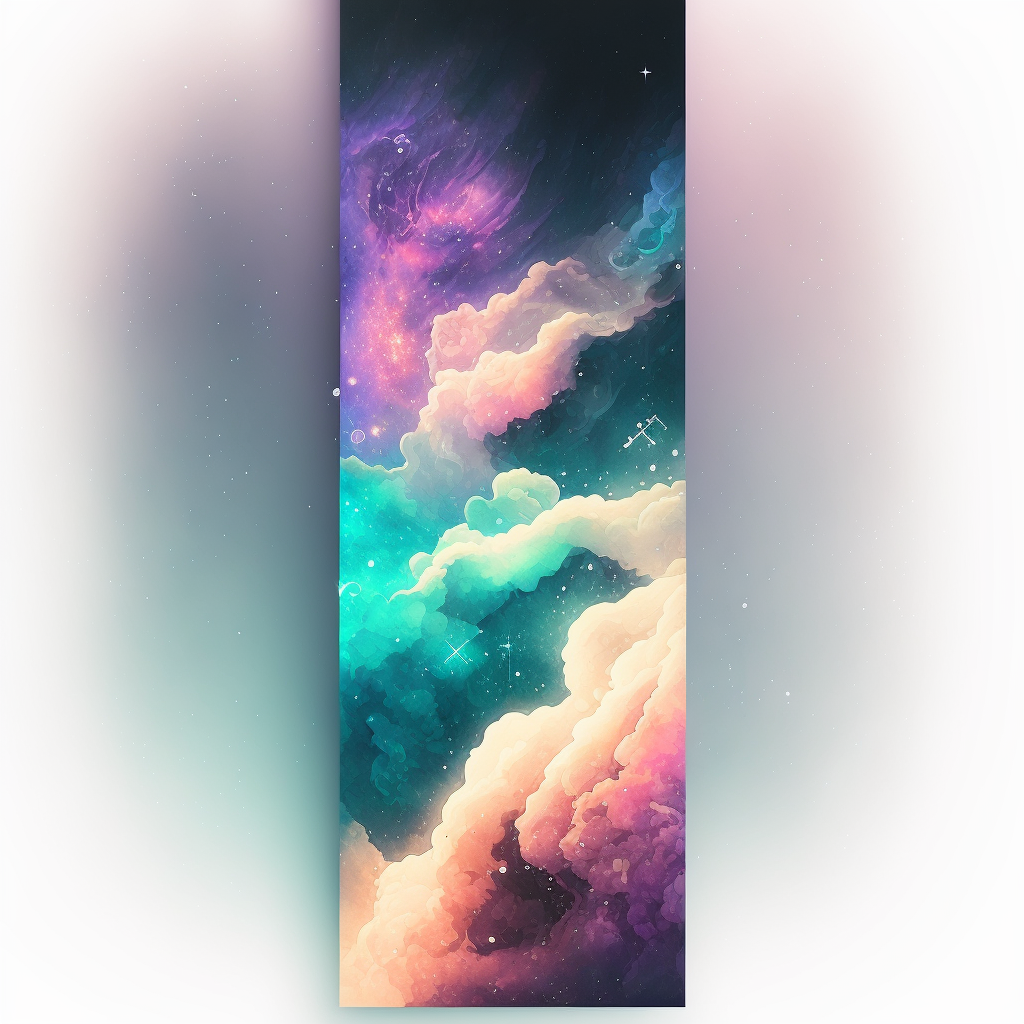
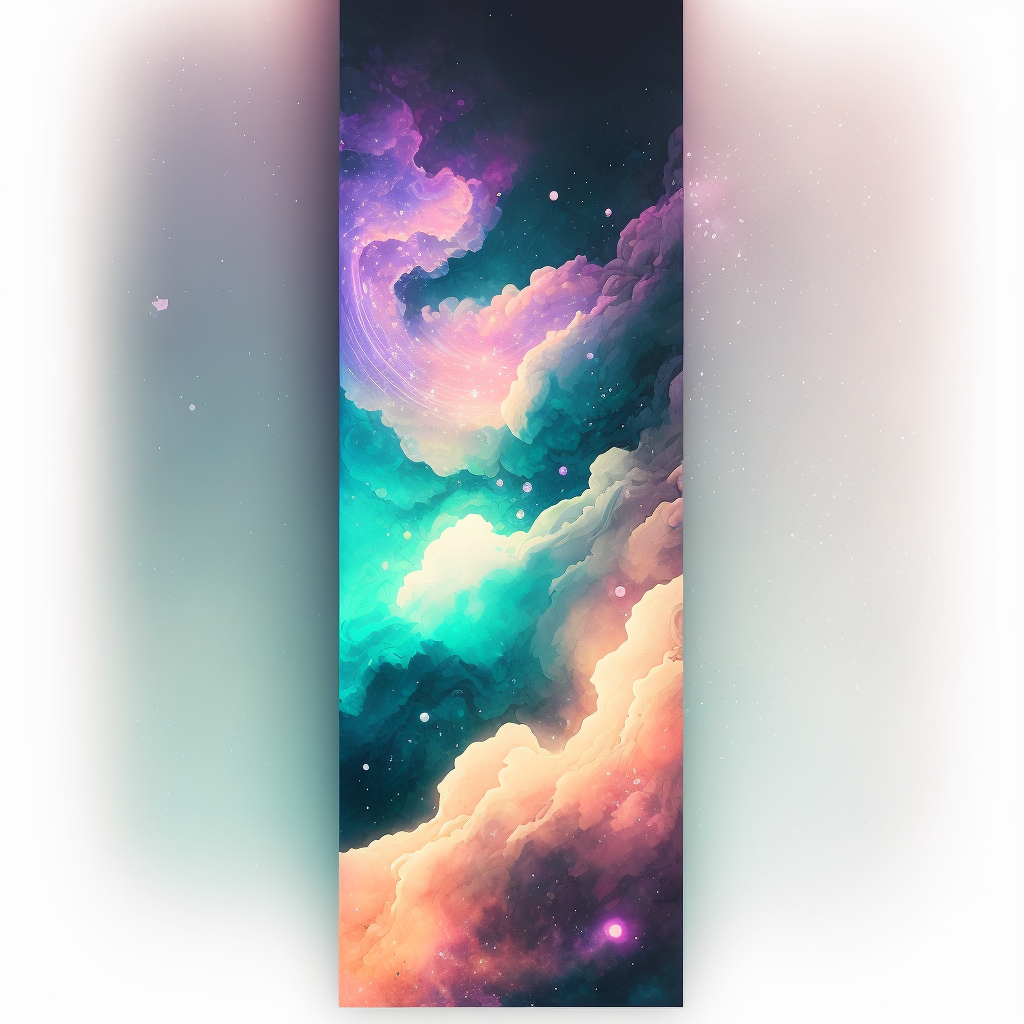
changed background img and addeda few words

Changed region(s): [[0.125, 0.0, 0.8125, 1.0], [0.2188, 0.25, 0.2812, 0.4375], [0.1562, 0.7812, 0.1875, 0.8125]]

diff --git a/style.css b/style.css
@@ -8,28 +8,27 @@ body {
     background-image: url(assets/images/galaxy.png);
     background-repeat: no-repeat;
     background-color: #1B2432;
-    background-size: 110%;
+    background-size: 100%;
     background-position: center;
 }
 
 header {
-    color: #121420;
+    color: #403F4C;
     text-align: center;
     padding-top: 20px;
     height: 20vh;
-    /* background-image: url(assets/images/other-background.png);
-    background-position: bottom center; */
 }
 header h1 {
     padding: 10px;
     background-color: white;
     opacity: 70%;
+    color: #403F4C;
 }
 
 main {
     text-align: center;
     height: 65vh;
-    color: #121420;
+    color: #403F4C;
 }
 
 #play {
@@ -39,24 +38,23 @@ main {
 }
 
 #start {
+    border-color: #403F4C;
     border-radius: 10px;
     font-size: 40px;
     padding: 5px;
     margin: 30px;
     background-color: white;
     opacity: 70%;
-    color: #121420;
+    color: #403F4C;
 }
 
 section {
     opacity: 70%;
-    /* border-radius: 20px; */
     display: flex;
     justify-content: center;
     width: 100vw;
     height: 30vh;
     margin: auto;
-    /* border: 5px solid #403F4C; */
     background-color: #ffffff;
     color: #403F4C;
 }
@@ -73,17 +71,17 @@ div {
 }
 
 #timer {
-    margin-top: 20px;
-    margin-bottom: 10px;
+    margin-top: 1%;
+    margin-bottom: 1%;
 }
 
 #letter {
-    margin-top: 50px;
+    margin-top: 1%;
     font-size: 50px;
 }
 
 #alphabet {
-    margin: 50px;
+    margin: 2%;
 }
 
 footer {

diff --git a/script.js b/script.js
@@ -1,6 +1,6 @@
 //1. Create a Pool of words ✔
 //  - Create a var with an array ✔
-var wordPool = ["salmon", "bear", "oven", "televison", "chewing", "drinking", "hiking", "christmas", "tabletop", "eventlistener", "hangman", "playing", "computer", "anaconda", "zebra", "snowboarding", "skiing", "mountain", "ocean", "forest", "concert", "handmade", "wife", "husband", "lion", "broccoli", "potatoes", "lemon", "steak", "hermit", "bathroom", "livingroom", "bathroom"];
+var wordPool = ["salmon", "bear", "oven", "televison", "chewing", "drinking", "hiking", "christmas", "tabletop", "sunflower", "hangman", "playing", "computer", "anaconda", "zebra", "snowboarding", "skiing", "mountain", "ocean", "forest", "concert", "handmade", "wife", "husband", "lion", "broccoli", "potatoes", "lemon", "steak", "hermit", "bathroom", "livingroom", "bathroom", "uranus", "saturn", "jupiter", "mars", "venus", "pluto", "aquarius", "scorpio", "virgo", "sagitarius", "piscies", "taurus", "leo", "gemini", "libra", "cancer", "capricorn", "aries", "stars", "planets", "moon", "galaxy", "purple", "pink", "halloween", "birthday", "spring", "summer", "winter", "automn" ];
 //2. Create a countdown ✔
 var timerEl = document.querySelector("#timer");
 var playEl = document.querySelector("#play");
